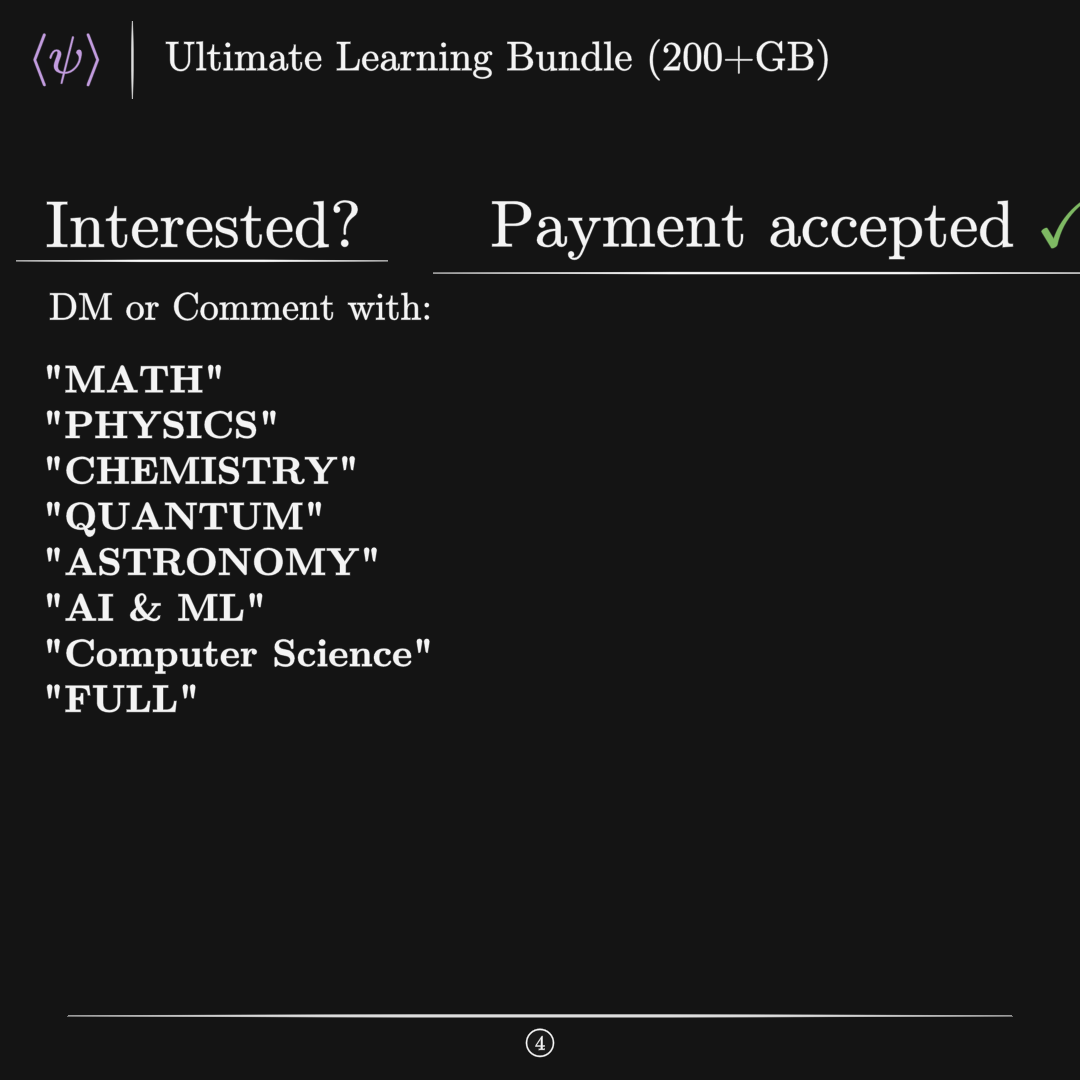
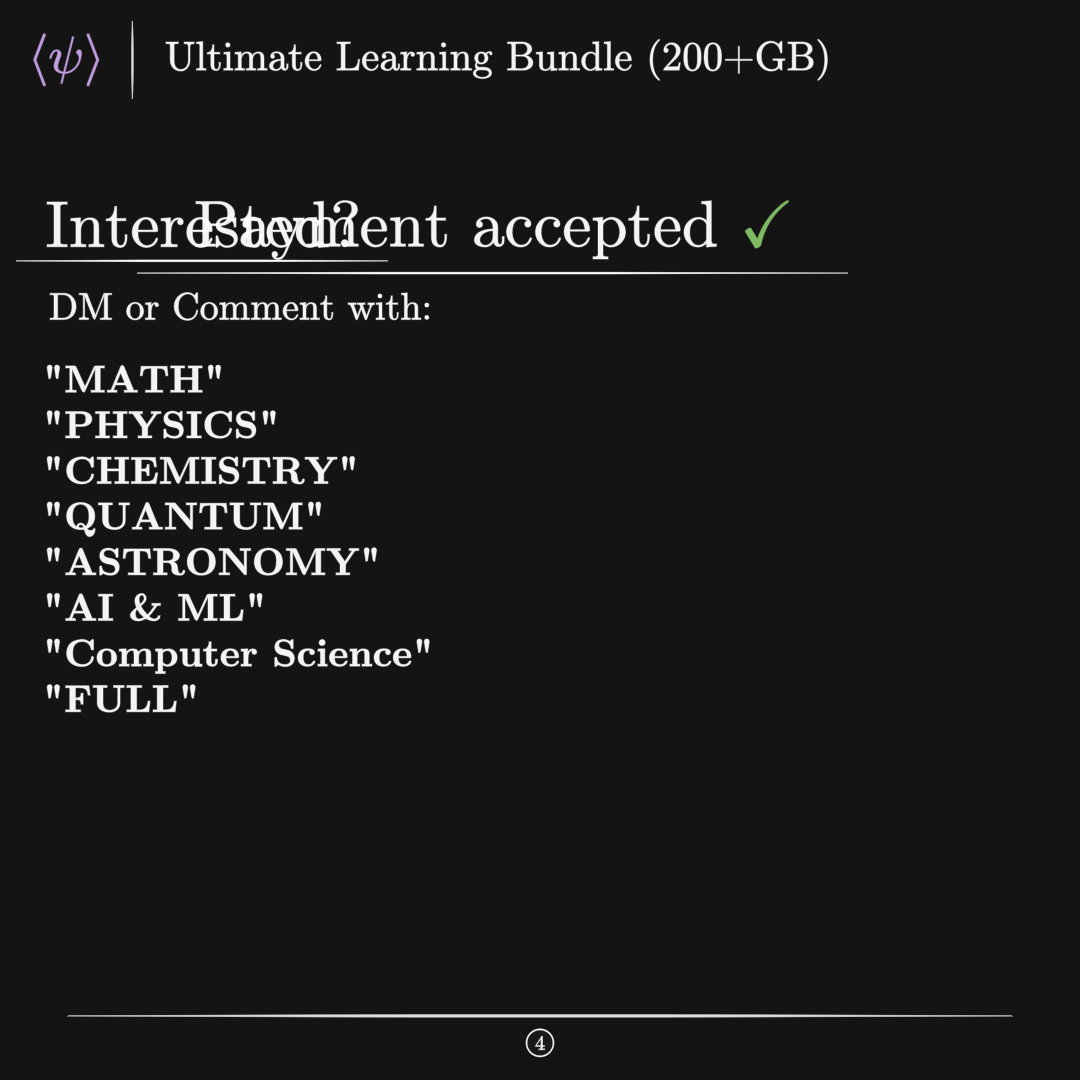
f

Changed region(s): [[0.1833, 0.1833, 0.9778, 0.275], [0.9778, 0.1833, 1.0, 0.2139]]

diff --git a/test.py b/test.py
@@ -173,6 +173,6 @@ class Payment(PaidTemplate):
 
         payment = TexText(R"Payment accepted $\checkmark$")
         payment[-1].set_color(GREEN)
-        payment.next_to(title, RIGHT, buff=LARGE_BUFF, aligned_edge=UP)
+        payment.next_to(title, RIGHT, buff=LARGE_BUFF, aligned_edge=UR)
         payment_un = Underline(payment, stroke_width=[0.5, 1.5, 1.5, 0.5])
         self.add(payment, payment_un)
